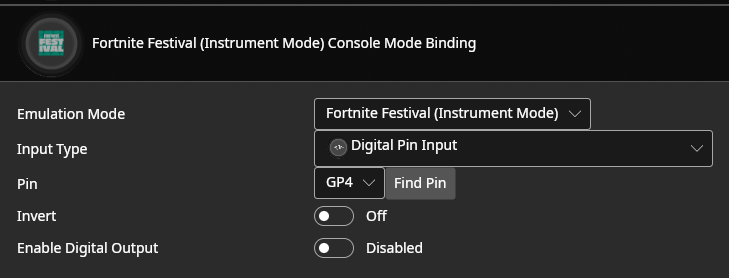
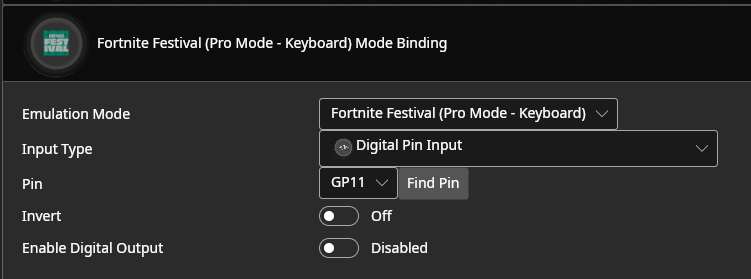
Update fnf notes

diff --git a/tool/fortnite_festival.md b/tool/fortnite_festival.md
@@ -11,20 +11,23 @@ Note that if your are on the nintendo switch, the default guitar bindings are co
 ## How to add the mode binding
 1. Hit `Add Setting`
 2. Pick `Console Mode Binding`
-3. Set `Emulation Mode` to `Fortnite Festival (Instrument Mode)`
+3. Set `Emulation Mode` to `Fortnite Festival (Pro Mode - Keyboard)`
+   1. This will work on consoles and PC
+   2. If you wish to emulate a riffmaster compatible guitar on PC, you can instead use `Fortnite Festival (Pro Mode - PC gamepad)`, but do note that whammy won't work.
+   3. You can always add both modes if you wish to be able to use both, just put them on different buttons.
 4. Pick the correct `Input Type` and then configure the rest of the settings as necessary. You are configuring a button that when held will jump to keyboard emulation mode.
    1. For example, on wii you may do something like this:
 
       [![Console Mode Wii](/assets/images/screenshots/fnf_console_wii.png)](/assets/images/screenshots/fnf_console_wii.png)
 
       This would make it so holding green when pluging in the guitar makes the guitar go into the Fortnite Festival keyboard emulation.
-   1. For direct you may do something like this:
+   2. For direct you may do something like this:
 
       [![Console Mode Direct](/assets/images/screenshots/fnf_console_direct.png)](/assets/images/screenshots/fnf_console_direct.png)
 
       This would make it so holding the button on pin GP4 when pluging in the guitar makes the guitar go into the Fortnite Festival keyboard emulation.
 5. If you wish to play on PlayStation, go into `Controller Settings` and make sure the `Rollover Mode` is set to `6KRO`
-5. Save your settings
-6. Unplug and replug the guitar, holding the input you just configured. Your guitar should show up as a keyboard now.
-7. Play festival
-8. Unplug and replug the guitar without holding a button to go back to normal mode or to configure.
+6. Save your settings
+7. Unplug and replug the guitar, holding the input you just configured. Your guitar should show up as a keyboard now.
+8. Play festival
+9.  Unplug and replug the guitar without holding a button to go back to normal mode or to configure.
